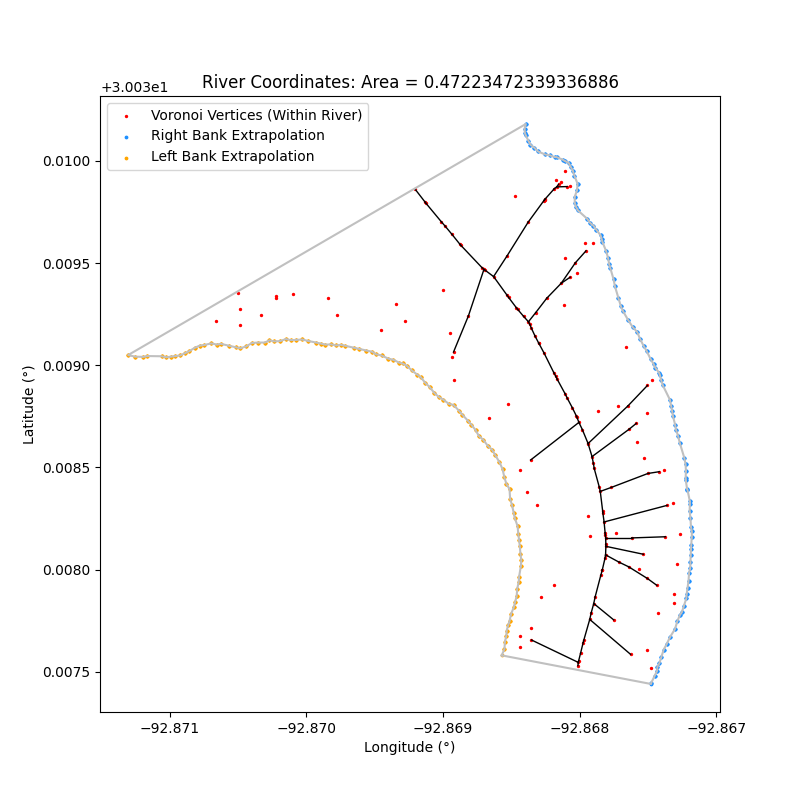
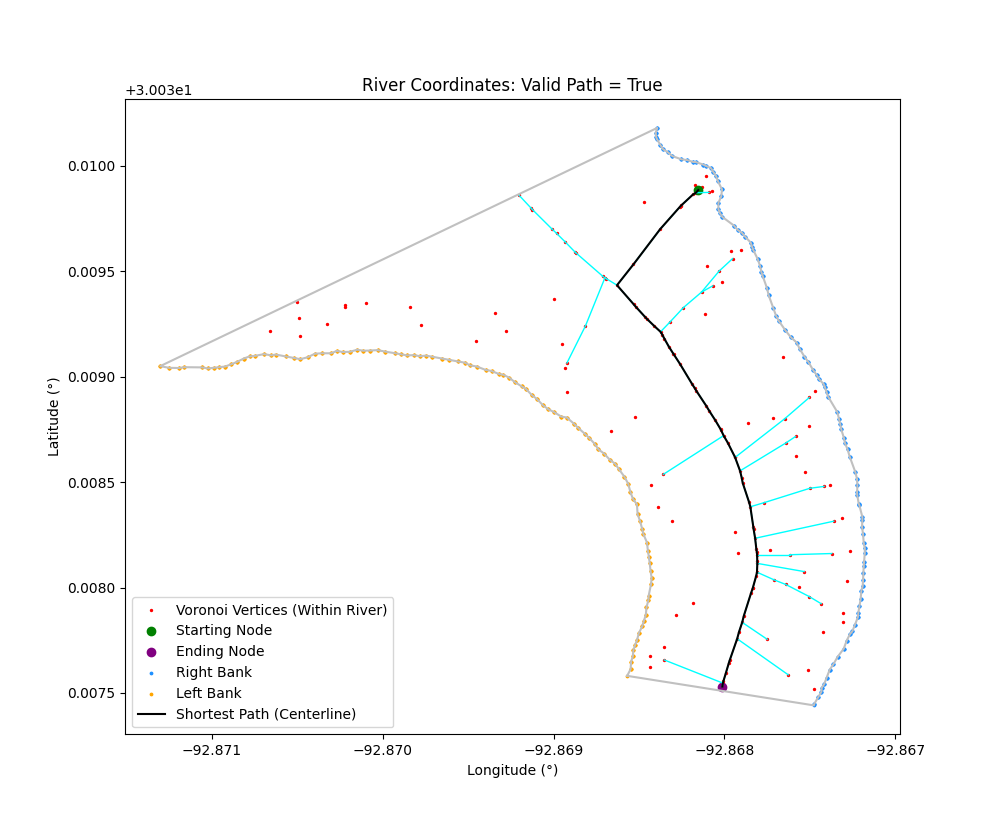
dynamically find path from start/end node

diff --git a/river_centerline_width.py b/river_centerline_width.py
@@ -3,6 +3,7 @@ import math
 import csv
 from collections import Counter
 
+import networkx as nx
 import matplotlib.pyplot as plt
 from matplotlib.patches import Polygon as mat_poly
 import numpy as np
@@ -94,6 +95,35 @@ def voronoiVerticesWithinPolygon(bank_polygon, bank_voronoi):
 			y_points_within.append(vertex_point[0])
 	return x_points_within, y_points_within
 
+def networkXGraph(all_points_dict, starting_node, ending_node):
+	def distanceBetween(start, end):
+		lat1 = start[1]
+		lat2 = end[1]
+		lon1 = start[0]
+		lon2 = end[0]
+		p = math.pi/180
+		a = 0.5 - math.cos((lat2-lat1)*p)/2 + math.cos(lat1*p) * math.cos(lat2*p) * (1-math.cos((lon2-lon1)*p))/2
+		return math.asin(math.sqrt(a))
+
+	g = nx.Graph()
+	node_as_keys_pos_values = {}
+	for start_point, end_point_list in all_points_dict.items():
+		node_as_keys_pos_values[start_point] = (start_point[0], start_point[1])
+		g.add_node(start_point, pos=(start_point[0], start_point[1]))
+		#print(start_point)
+		for end_point in end_point_list:
+			#print(end_point)
+			g.add_node(end_point, pos=(end_point[0], end_point[1]))
+			node_as_keys_pos_values[end_point] = (end_point[0], end_point[1])
+			g.add_edge(start_point, end_point, weight=distanceBetween(start_point,end_point))
+		#print("\n")
+	try:
+		shortest_path = nx.shortest_path(g, source=starting_node, target=ending_node)
+	except nx.NetworkXNoPath:
+		return None
+	return shortest_path
+
+
 ########################################################################
 
 def plotRiver(river_df, 
@@ -103,16 +133,13 @@ def plotRiver(river_df,
 			save_plot_name):
 
 	# Plot river based on right/left bank coordinates
-	fig = plt.figure(figsize=(8,8))
+	fig = plt.figure(figsize=(10,10))
 	ax = fig.add_subplot(111)
-
-	#plt.scatter(x=river_df['llon'], y=river_df['llat'], s=0.5, c="darkgrey")
-	#plt.scatter(x=river_df['rlon'], y=river_df['rlat'], s=0.5, c="darkgrey")
 
 	# Plot Voronoi Polygons
 	vertices_x, vertices_y = voronoiVerticesWithinPolygon(river_bank_polygon, river_bank_voronoi)
 	plt.scatter(vertices_x, vertices_y, c="red", s=2, label="Voronoi Vertices (Within River)") # TODO: replace with final ridge points that are within the polygon and along the centerline
-	#voronoi_plot_2d(river_bank_voronoi, show_points=True, point_size=1, ax=ax) #TODO
+	#voronoi_plot_2d(river_bank_voronoi, show_points=True, point_size=1, ax=ax)
 
 	# Isolate center line:
 	# Plot the ridge edges of the Voronoi polygons that lie within the river banks
@@ -122,7 +149,7 @@ def plotRiver(river_df,
 		if ridge_vertex_point[0] >= 0 and ridge_vertex_point[1] >= 0:
 			v0 = river_bank_voronoi.vertices[ridge_vertex_point[0]]
 			v1 = river_bank_voronoi.vertices[ridge_vertex_point[1]]
-			# Check if start and end points are within the polygon, otherwise remove the connection
+			# Check if start and end points are within the polygon, otherwise remove the connection pair
 			if river_bank_polygon.contains(Point([v0[1], v0[0]])) and river_bank_polygon.contains(Point([v1[1], v1[0]])):
 				start_point = tuple([v0[1], v0[0]])
 				end_point = tuple([v1[1], v1[0]])
@@ -135,59 +162,77 @@ def plotRiver(river_df,
 	for connection in all_connections_start_to_end:
 		start_point = connection[0]
 		end_point = connection[1]
-		#print(start_point)
-		#print(end_point)
-		#print(connections_counter_start_to_end[start_point])
-		#print(connections_counter_start_to_end[end_point])
 		# Only plot points with at least two connections
 		if connections_counter_start_to_end[start_point] > 1:
 			if connections_counter_start_to_end[end_point] > 1: 
-				print("Start: {0} - {1}".format(start_point[0], connections_counter_start_to_end[start_point]))
-				print("End  : {0} - {1}".format(end_point[0], connections_counter_start_to_end[end_point]))
+				#print("Start : {0} - {1}".format(start_point[0], connections_counter_start_to_end[start_point]))
+				#print("End   : {0} - {1}".format(end_point[0], connections_counter_start_to_end[end_point]))
 				if start_point not in points_dict.keys():
 					points_dict[start_point] = []
 				points_dict[start_point].append(end_point)
 				
 	x_ridge_point = []
 	y_ridge_point = []
-
+	print(len(points_dict))
+	starting_node = None
+	ending_node = None
 	for start_point, end_point_list in points_dict.items():
-		#print(start_point)
-		#print(end_point_list)
+		if starting_node is None: starting_node = start_point
+		else:
+			if start_point[1] > starting_node[1]:
+				starting_node = start_point
+		print(start_point)
+		print(end_point_list)
 		for end_point in end_point_list:
 			if len(end_point_list) > 0:
+				if ending_node is None: ending_node = end_point
+				else:
+					if end_point[1] < ending_node[1]:
+						ending_node = end_point
+					if start_point[1] < ending_node[1]:
+						ending_node = start_point
 				x_ridge_point.append([start_point[0], end_point[0]])
 				y_ridge_point.append([start_point[1], end_point[1]])
 
+	# Dynamically assign the starting and ending
+	plt.scatter(starting_node[0], starting_node[1], c="green", label="Starting Node")
+	plt.scatter(ending_node[0], ending_node[1], c="purple", label="Ending Node")
+
 	for i in range(len(x_ridge_point)):
-		plt.plot(x_ridge_point[i], y_ridge_point[i], 'black', linewidth=1)
-		# Plot (X, Y) positions
-		#ax.text(x=x_ridge_point[i][0], y=y_ridge_point[i][0], s="{0}".format(x_ridge_point[i][0], y_ridge_point[i][0]))
-		#ax.text(x=x_ridge_point[i][1], y=y_ridge_point[i][1], s="{0}".format(x_ridge_point[i][1], y_ridge_point[i][1]))
+		plt.plot(x_ridge_point[i], y_ridge_point[i], 'cyan', linewidth=1)
+		# Plot (X, Y) positions as text
+		#ax.text(x=x_ridge_point[i][0], y=y_ridge_point[i][0], s="{0}, {1}".format(x_ridge_point[i][0], y_ridge_point[i][0]))
+		#ax.text(x=x_ridge_point[i][1], y=y_ridge_point[i][1], s="{0}, {1}".format(x_ridge_point[i][1], y_ridge_point[i][1]))
 
 	# Plot River as a Polygon
 	plt.plot(*river_bank_polygon.exterior.xy, c="silver")
 	#ax.add_patch(mat_poly(right_bank_expanded+left_bank_expanded, closed=True, facecolor='red'))
 
-	# Plot colored extrapolations between known points
+	# Plot colored river bank (including extrapolations) between known points
 	scatter_plot_size = 3
 	x = []
 	y = []
 	for i in right_bank_expanded: 
 		x.append(i[1])
 		y.append(i[0])
-	plt.scatter(x, y, c="dodgerblue", s=scatter_plot_size, label="Right Bank Extrapolation")
+	plt.scatter(x, y, c="dodgerblue", s=scatter_plot_size, label="Right Bank")
 	x = []
 	y = []
 	for i in left_bank_expanded: 
 		x.append(i[1])
 		y.append(i[0])
-	plt.scatter(x, y, c="orange", s=scatter_plot_size, label="Left Bank Extrapolation")
+	plt.scatter(x, y, c="orange", s=scatter_plot_size, label="Left Bank")
 
-	plt.title("River Coordinates: Area = {0}".format(river_bank_polygon.area*111139))
+	shortest_path_points = networkXGraph(points_dict, starting_node, ending_node)
+	valid_path_through = False
+	if shortest_path_points:
+		valid_path_through = True
+		plt.plot(*zip(*shortest_path_points), c="black", label="Shortest Path (Centerline)")
+
+	plt.title("River Coordinates: Valid Path = {0}".format(valid_path_through))
 	plt.xlabel("Longitude (°)")
 	plt.ylabel("Latitude (°)")
-	plt.legend()
+	plt.legend(loc="lower left")
 	plt.show()
 	fig.savefig(save_plot_name)
 
@@ -195,8 +240,12 @@ def plotRiver(river_df,
 if __name__ == "__main__":
 	convertColumnsToCSV("data/river_coords.txt")
 	df = pd.read_csv("data/river_coords.csv")
-	df = df.head(100)
-	#df = df.loc[100:510]
+	#df = df.head(700) # invalid path
+	df = df.head(100) # valid but incorrect path
+	#df = df.head(550) # valid but incorrect path
+	#df = df.head(40) # valid with correct path
+	#df = df.head(10)
+	#df = df.loc[100:710]
 
 	# Lines between points on graph
 	latitude_points = []
